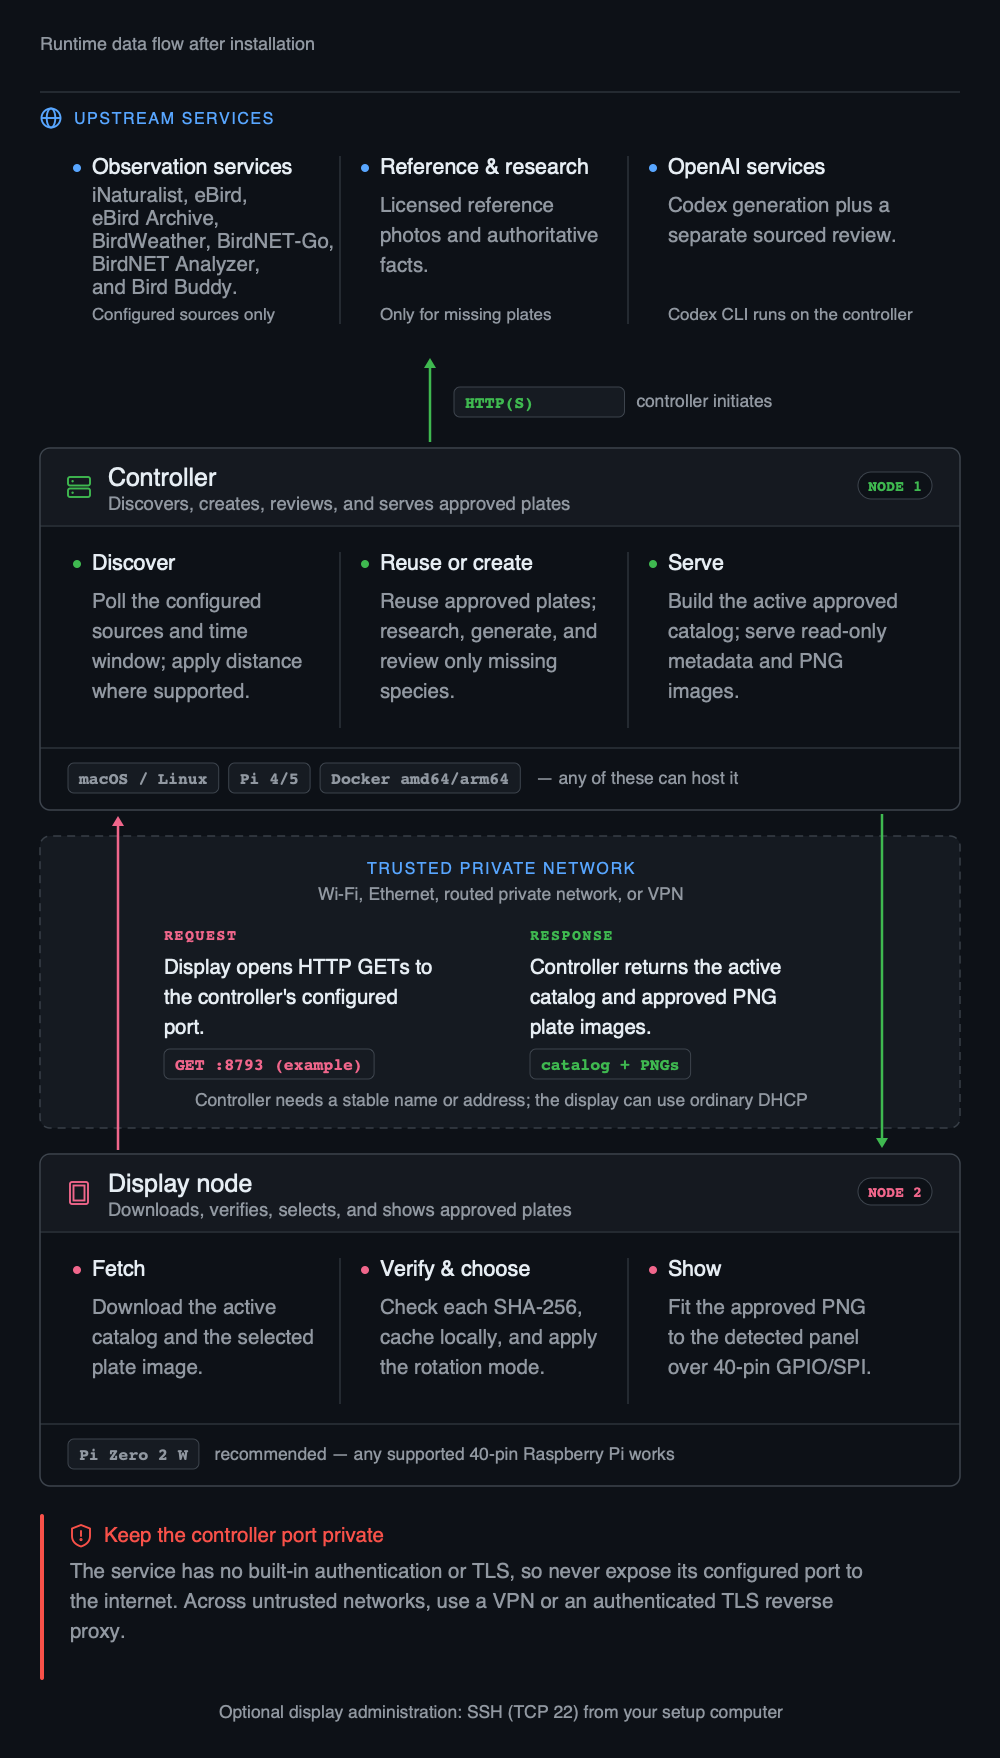
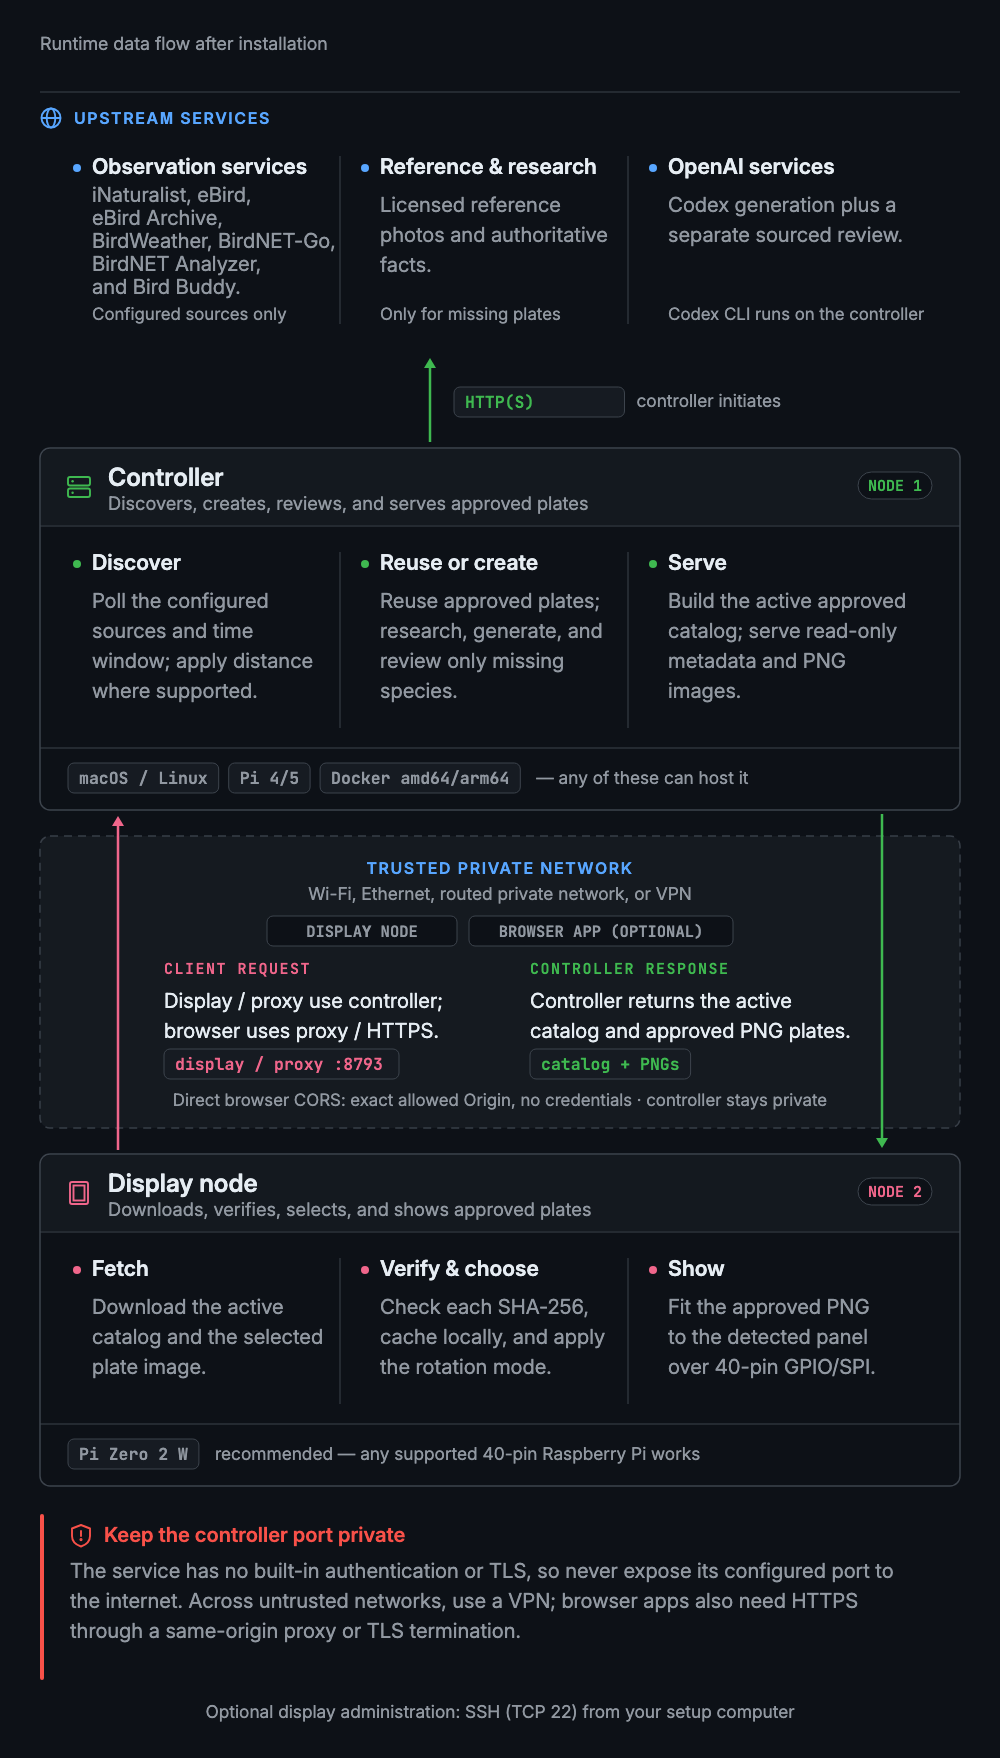
Document trusted browser clients (#248)
## Summary

The trusted-browser feature is documented in the setup guidance, but the
main
architecture views still show the display node as the controller's only
catalog
client.

Add the optional browser application to the light and dark architecture
graphics and the Mermaid flow. Keep the security boundary visible:
browser
access is disabled by default, uses an exact allowed origin, permits
only
read-only catalog and image requests, and does not add credentials or
make the
controller safe for public exposure.

The README now includes the minimal opt-in setting and links to the full
setup
and network guidance. Installation alt text and network requirements
describe
both supported clients.

## Change type

- [ ] Code
- [x] Documentation
- [ ] Catalog plate
- [ ] Tests or continuous integration
- [ ] Other maintenance

## Validation

- `uv lock --check`
- `uv sync --extra dev --locked`
- `uv run ruff format --check .`
- `uv run ruff check .`
- `uv run mypy`
- `uv run pytest` (616 passed, 75 subtests passed)
- `uv run inky-bird-frame catalog validate --catalog catalog` (162
species,
  valid)
- catalog add-only validation against `origin/main` (valid, zero
additions)
- `uv run python .github/scripts/check_workflow_pinning.py
.github/workflows`
- `actionlint -color`
- `shellcheck deploy/*.sh`
- `uv build` (source distribution and wheel built)
- `xmllint --noout` for both SVG sources
- `git diff --check`
- rendered and visually inspected both 1000x1758 PNGs

## Review notes
[…]

diff --git a/docs/installation.md b/docs/installation.md
@@ -7,12 +7,15 @@ bird observations.
 
 <picture>
   <source media="(prefers-color-scheme: dark)" srcset="images/installation-architecture-dark.png">
-  <img src="images/installation-architecture.png" alt="Inky Bird Frame runtime architecture showing iNaturalist, eBird, eBird Archive, BirdWeather, BirdNET-Go, BirdNET Analyzer, and Bird Buddy observation services; the controller; its private HTTP connection with the Raspberry Pi display node; and the Inky Impression panel">
+  <img src="images/installation-architecture.png" alt="Inky Bird Frame runtime architecture showing observation and generation services; the controller; the Raspberry Pi display node and an optional trusted browser application reading the approved catalog over a private network; and the Inky Impression panel">
 </picture>
 
-The display initiates every application connection. The controller's configured
-port (8793 in the supplied example configuration) must remain on a trusted
-network and must not be forwarded from the public internet.
+Every application connection is client-initiated. The display node connects
+directly to the controller. A browser connects directly only from a trusted HTTP
+origin; otherwise, its application proxy or TLS terminator connects to the
+controller. The controller's configured port (8793 in the supplied example
+configuration) must remain on a trusted network and must not be forwarded from
+the public internet.
 
 ## Choose the two computers
 
@@ -68,6 +71,8 @@ CLI. The display requires `git`, `rsync`, and Pimoroni's Python environment.
 | Controller | Internet HTTPS (TCP 443) | Codex, internet-backed observation services and geocoder, licensed references, and configured research sources |
 | Controller | BirdNET-Go HTTP(S) endpoint | Read-only summaries from an explicitly configured self-hosted station |
 | Display node | Configured controller TCP port (8793 in the supplied example) | Read-only health, catalog, and image downloads |
+| Trusted browser application | Same-origin proxy, HTTPS endpoint, or controller HTTP port for an HTTP application | Optional read-only catalog and image downloads; an exact allowed origin is required when the request is cross-origin |
+| Application proxy or TLS terminator | Configured controller TCP port (8793 in the supplied example) | Server-side catalog and image requests; keep this hop on the trusted network |
 | Setup computer | Display node SSH (TCP 22) | Installation, updates, and troubleshooting |
 
 The two computers do not have to share a subnet. They must be routable to each
@@ -107,11 +112,14 @@ the normal response without an `Access-Control-Allow-Origin` header.
 This setting does not add authentication, TLS, or public-internet safety. Keep
 the controller private. Browsers also block an HTTPS application from fetching
 a plain-HTTP controller as mixed content. Prefer a same-origin application
-proxy, which needs no CORS permission, or protect a separate HTTPS controller
-endpoint with a VPN or browser mutual TLS. Cookie, session, and HTTP
-Authorization proxies are not compatible with this interface because Inky does
-not permit credentialed CORS requests or implement preflight. Standard `GET`
-requests need no preflight or custom request headers.
+proxy, which needs no CORS permission and can authenticate the browser before
+making a server-side request to Inky. If the browser reaches the controller
+through a VPN, terminate HTTPS for the controller endpoint as well; the VPN
+alone does not prevent mixed content. Direct cross-origin access through cookie,
+session, client-certificate, or HTTP Authorization proxies is not compatible
+with this interface because Inky does not permit credentialed CORS requests or
+implement preflight. Standard `GET` requests need no preflight or custom request
+headers.
 
 ## 1. Install the controller
 

diff --git a/README.md b/README.md
@@ -36,7 +36,7 @@ are cached and reused.
 <p align="center">
   <picture>
     <source media="(prefers-color-scheme: dark)" srcset="docs/images/installation-architecture-dark.png">
-    <img src="docs/images/installation-architecture.png" alt="Inky Bird Frame runtime architecture showing iNaturalist, eBird, eBird Archive, BirdWeather, BirdNET-Go, BirdNET Analyzer, and Bird Buddy observation services; the controller; its private HTTP connection with the Raspberry Pi display node; and the Inky Impression panel" width="760">
+    <img src="docs/images/installation-architecture.png" alt="Inky Bird Frame runtime architecture showing observation and generation services; the controller; the Raspberry Pi display node and an optional trusted browser application reading the approved catalog over a private network; and the Inky Impression panel" width="760">
   </picture>
 </p>
 
@@ -48,6 +48,23 @@ The project has two jobs:
   catalog and images.
 - The **display node** downloads approved assets, verifies their checksums, and
   rotates them on the Inky panel. It never runs discovery or Codex.
+
+Browser access is optional. If a trusted web application reads the controller
+from a separate origin, add that exact origin:
+
+```toml
+[controller]
+cors_allowed_origins = ["https://frame.example.test"]
+```
+
+An HTTPS application must use a same-origin application proxy or reach the
+controller through an HTTPS endpoint. A VPN alone does not prevent mixed
+content. A same-origin proxy makes the request server-side and does not need a
+CORS setting. Cross-origin access is disabled by default, does not add
+authentication, and does not make the controller safe to expose to the
+internet. See
+[Browser applications](docs/installation.md#browser-applications) for the
+configuration and network limits.
 
 The roles may run on one capable Raspberry Pi, but the recommended wall build
 keeps the lightweight display node behind the frame and runs the controller on

diff --git a/docs/architecture.md b/docs/architecture.md
@@ -2,7 +2,9 @@
 
 Inky Bird Frame has three roles. The controller discovers birds and creates
 plates. The display node pulls approved images. An optional publisher sends new
-plates to a shared GitHub catalog.
+plates to a shared GitHub catalog. A trusted browser application can also read
+the active catalog through a same-origin proxy or, for direct cross-origin
+access, after the operator allows its exact origin.
 
 ```mermaid
 flowchart LR
@@ -12,6 +14,10 @@ flowchart LR
     A --> C
     D["Display node"] -- "GET catalog and images" --> C
     C -- "Approved plates" --> D
+    B["Trusted browser app (optional)"] -- "HTTPS GET" --> X["Application proxy or TLS endpoint"]
+    X -- "GET catalog and images" --> C
+    C -- "Approved catalog" --> X
+    X -- "Approved catalog" --> B
     A -. "optional catalog-only PR" .-> P["Public catalog"]
 ```
 
